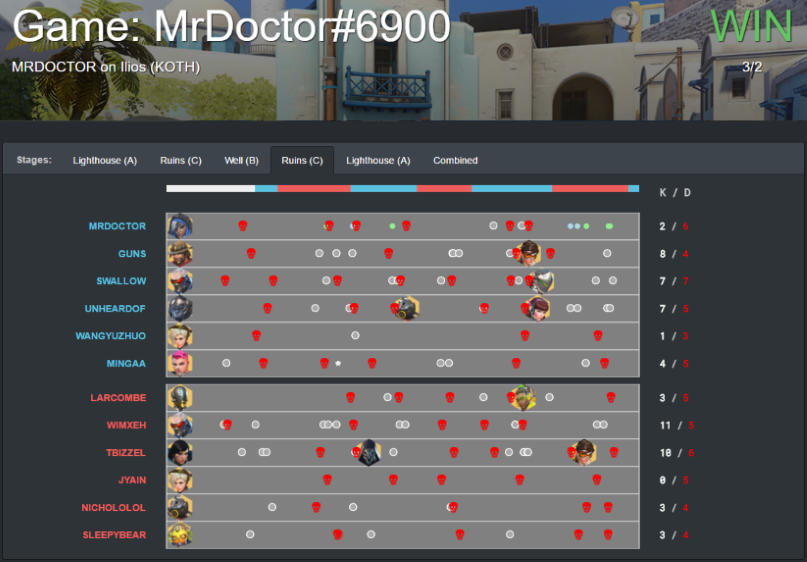
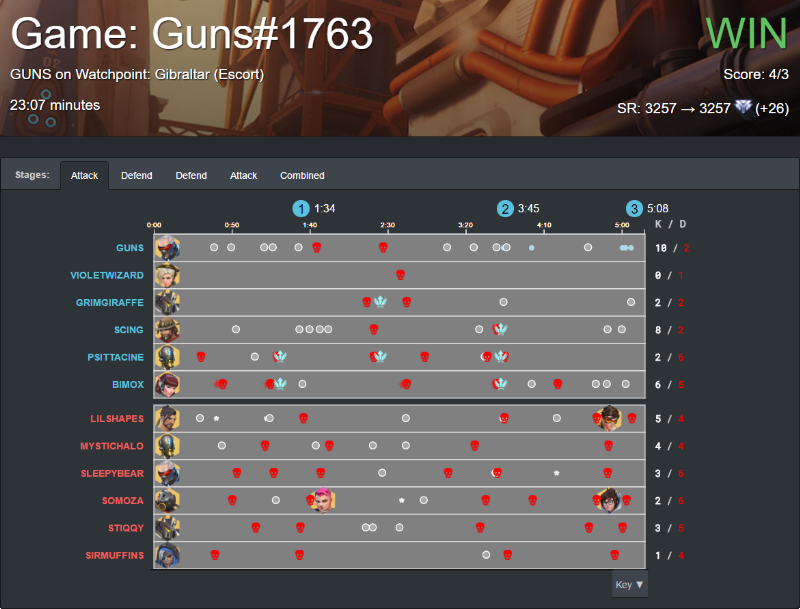
Show killfeed assists in the timeline

diff --git a/src/game/game.service.ts b/src/game/game.service.ts
@@ -99,6 +99,12 @@ export class GameService {
                     } else if (heroes[heroes.length - 1].name === hero) {
                         // if the new hero is the same as the last then extend that one on
                         heroes[heroes.length - 1].end = kill.time - stage.start;
+                        if (kill.rightPlayer != player || kill.isRes){
+                            // If the event is a kill or being ressed then the player continued playing this hero for a bit longer
+                            // Using this event as the end of playing this hero can make it look like a player ressurected as a different hero
+                            // To solve this extend out the time a bit
+                            heroes[heroes.length - 1].end += 15 * 1000 + Math.random() * 10 * 1000;
+                        }
                     } else {
                         // once we see a new hero add this to the list
                         heroes.push({
@@ -146,6 +152,52 @@ export class GameService {
             }
         }
     }
+    
+    addKillfeedAssists(players: Array<Player>, stage: any, killfeed: Array<KillFeedEntry>){
+         for (const kill of killfeed) {
+            if (kill.time > stage.end || kill.time < stage.start) {
+                // outside of this stage
+                continue;
+            }
+            let time = kill.time - stage.start;
+
+            let teamToCheck: string;
+            if (kill.isLeftRed){
+                // look for red assisters
+                teamToCheck = 'red';
+            } else {
+                teamToCheck = 'blue';
+            }
+            for (let assist of kill.assists){
+                let assister: Player;
+                let bestAssisterDistance: number = Infinity;
+                for (let player of players){
+                    if (player.colour == teamToCheck){
+                        for (let hero of player.heroesPlayed){
+                            if (hero.name == assist && hero.start < time && time < hero.end){
+                                let assisterDistance = time - hero.start;
+                                // choose the player which most recently switched to the hero we see in the assist
+                                if (assisterDistance < bestAssisterDistance){
+                                    bestAssisterDistance = assisterDistance;
+                                    assister = player;
+                                }
+                            }
+                        }
+                    }
+                }
+                if (assister){
+                    assister.events.push({
+                        time: time,
+                        type: 'ability-assist',
+                        otherHero: kill.rightHero
+                    })
+                } else {
+                    console.warn('Could not find player assisting as', assist, 'for kill at', kill.time);
+                }
+            }
+
+         }
+    }
 
     toGame(res: Response): Game {
         const body = res.json();
@@ -160,7 +212,8 @@ export class GameService {
                 leftHero: kill[2],
                 leftPlayer: kill[3],
                 rightHero: kill[4],
-                rightPlayer: kill[5]
+                rightPlayer: kill[5],
+                assists: kill[6]
             });
         }
 
@@ -181,6 +234,7 @@ export class GameService {
             this.addPlayersToStage(players, stage, killfeed, body.teams.red, 'red');
 
             this.addAssists(players[0], body.assists, stage);
+            this.addKillfeedAssists(players, stage, killfeed);
 
             let objectiveInfo: ObjectiveInfo;
             if (body.map_type === 'KOTH' || body.map_type == 'Control') {
@@ -303,6 +357,7 @@ export class KillFeedEntry {
     leftPlayer: string;
     rightHero: string;
     rightPlayer: string;
+    assists: string[];
 }
 
 export class HeroStatistics {

diff --git a/src/game/game.component.html b/src/game/game.component.html
@@ -50,9 +50,11 @@
                             </div>
                             <div class="col-md-6" style="padding-left: 10px; padding-right: 10px;">
                                 <h4>Assists <br/><small>Contribution to a kill</small></h4>
+                                <svg class="timeline-key"><text class="timeline-event ability-assist" x="10" y="10">●</text></svg> General<small> - Assist shown in killfeed</small>
+                                <br/>
                                 <svg class="timeline-key"><text class="timeline-event assist" x="10" y="10">●</text></svg> Elimination<small> - Dealt damage toward kill</small>
                                 <br/>
-                                <svg class="timeline-key"><text class="timeline-event support-assist" x="10" y="10">●</text></svg> Support<small> - Support ability e.g. discord, heal beam </small>
+                                <svg class="timeline-key"><text class="timeline-event support-assist" x="10" y="10">●</text></svg> Support<small> e.g. discord, caduceus staff </small>
                             </div>
                             <div class="col-md-12">
                                 <h4>Heroes</h4>

diff --git a/src/game/timeline.component.ts b/src/game/timeline.component.ts
@@ -64,7 +64,16 @@ export class TimelineComponent implements OnChanges {
             .attr('height', 40)
             .attr('y', 0);
 
-        svg.selectAll('.timeline-event .assist, .timeline-event .support-assist').data((player: Player) => player.events.filter(event => event.type == 'assist' || event.type == 'support-assist'))
+        svg.selectAll('.timeline-event .ability-assist')
+            .data((player: Player) => player.events.filter(event => event.type == 'ability-assist'))
+            .enter().append('text')
+            .attr('class', (event: GameEvent) => 'timeline-event ' + event.type)
+            .attr('x', (event: GameEvent) => this.x(event.time) + '%')
+            .attr('y', 20)
+            .text('●');
+
+        svg.selectAll('.timeline-event .assist, .timeline-event .support-assist')
+            .data((player: Player) => player.events.filter(event => event.type == 'assist' || event.type == 'support-assist'))
             .enter().append('text')
             .attr('class', (event: GameEvent) => 'timeline-event ' + event.type)
             .attr('x', (event: GameEvent) => this.x(event.time) + '%')

diff --git a/src/styles.css b/src/styles.css
@@ -149,6 +149,12 @@ a.navbar-brand > img {
     fill: lightgreen;
 }
 
+.timeline-event.ability-assist {
+    font-size: 18px;
+    font-weight: bold;
+    fill: lightgoldenrodyellow;
+}
+
 .timeline-event.destruction {
     font-size: 20px;
     fill: lightslategray;
